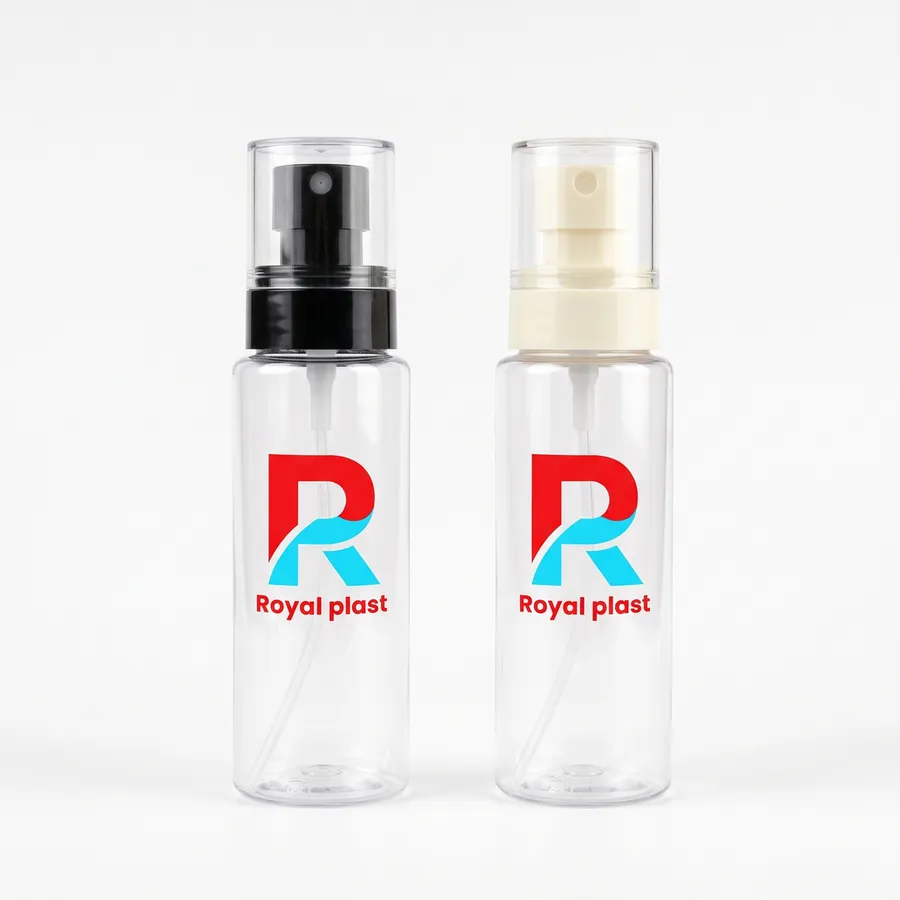
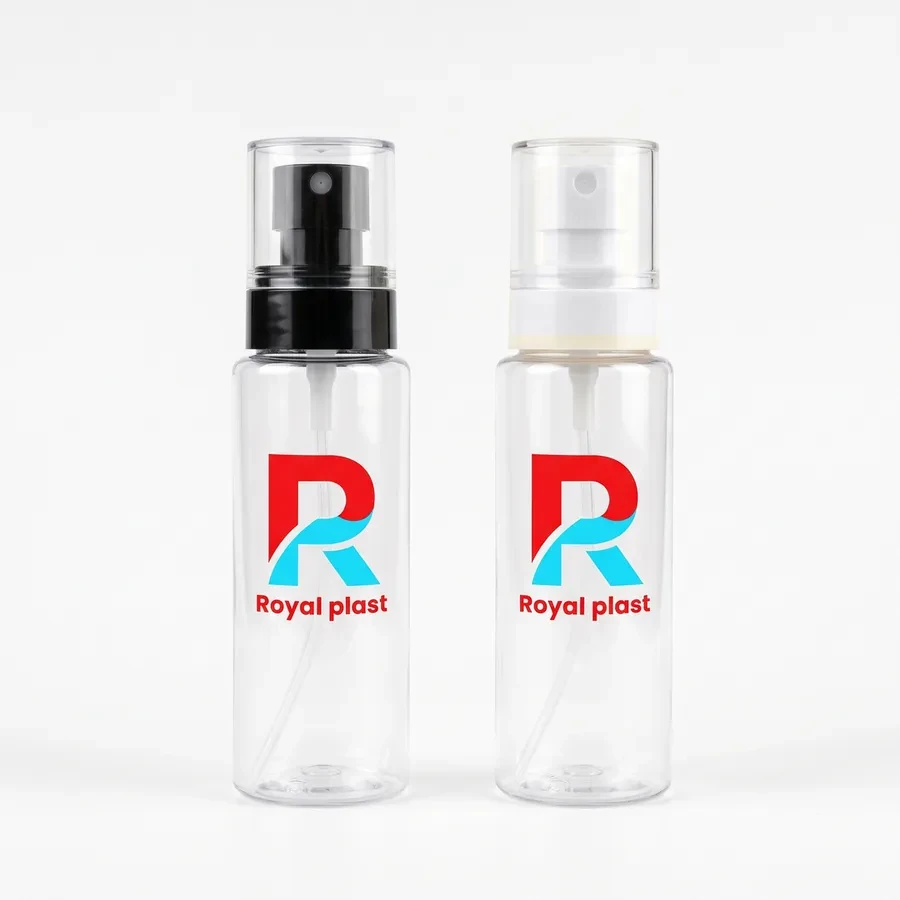
RP-215: white cap on right bottle
Claude-Session: https://claude.ai/code/session_01RHpAwk7S9yFShcnyhoKaQD

Changed region(s): [[0.6222, 0.1867, 0.6844, 0.3733]]

diff --git a/app.js b/app.js
@@ -55,7 +55,7 @@ function fullTitle(p){return `${t(p.cat=='jar'?'jar':'bottle')} ${sizesTxt(p)}`.
 function sub(p){if(p.nospec)return t('nospec');const a=[];if(p.necks.length)a.push(p.necks.map(n=>'NK'+n).join(' / '));p.caps.forEach(c=>a.push(capName(c)));p.extra.forEach(e=>a.push(lang=='ar'?e.ar:e.en));return a.join(' · ')}
 const colTxt=p=>p.colors.map(c=>t(c)).join('، ').replace(/،/g,lang=='ar'?'، ':', ');
 const dotsHTML=p=>`<span class="dots">${p.colors.map(c=>`<i class="dot d-${c}" title="${t(c)}"></i>`).join('')}</span>`;
-const IMGV='20261111h';const imgU=n=>`img/${n}.webp?v=${IMGV}`,thU=n=>`t/${n}.webp?v=${IMGV}`;
+const IMGV='20261111i';const imgU=n=>`img/${n}.webp?v=${IMGV}`,thU=n=>`t/${n}.webp?v=${IMGV}`;
 function reveal(root){const io=new IntersectionObserver(es=>es.forEach(e=>{if(e.isIntersecting){e.target.classList.add('in');io.unobserve(e.target)}}),{threshold:.12,rootMargin:'0px 0px -40px 0px'});
  (root||document).querySelectorAll('.rv:not(.in)').forEach(el=>io.observe(el))}
 function applyLang(){document.documentElement.lang=lang;document.documentElement.dir=lang=='ar'?'rtl':'ltr';

diff --git a/index.html b/index.html
@@ -11,7 +11,7 @@
 <link rel="icon" href="assets/favicon.png">
 <link rel="preconnect" href="https://fonts.googleapis.com"><link rel="preconnect" href="https://fonts.gstatic.com" crossorigin>
 <link href="https://fonts.googleapis.com/css2?family=Poppins:wght@400;600;700;800;900&display=swap" rel="stylesheet">
-<link rel="stylesheet" href="style.css?v=20261111h">
+<link rel="stylesheet" href="style.css?v=20261111i">
 <script>try{var t=localStorage.getItem('rp_theme');if(t)document.documentElement.dataset.theme=t;}catch(e){}</script>
 </head>
 <body>
@@ -104,5 +104,5 @@
 </div></div>
 
 <script src="https://cdnjs.cloudflare.com/ajax/libs/qrcode-generator/1.4.4/qrcode.min.js"></script>
-<script src="app.js?v=20261111h"></script>
+<script src="app.js?v=20261111i"></script>
 </body></html>
